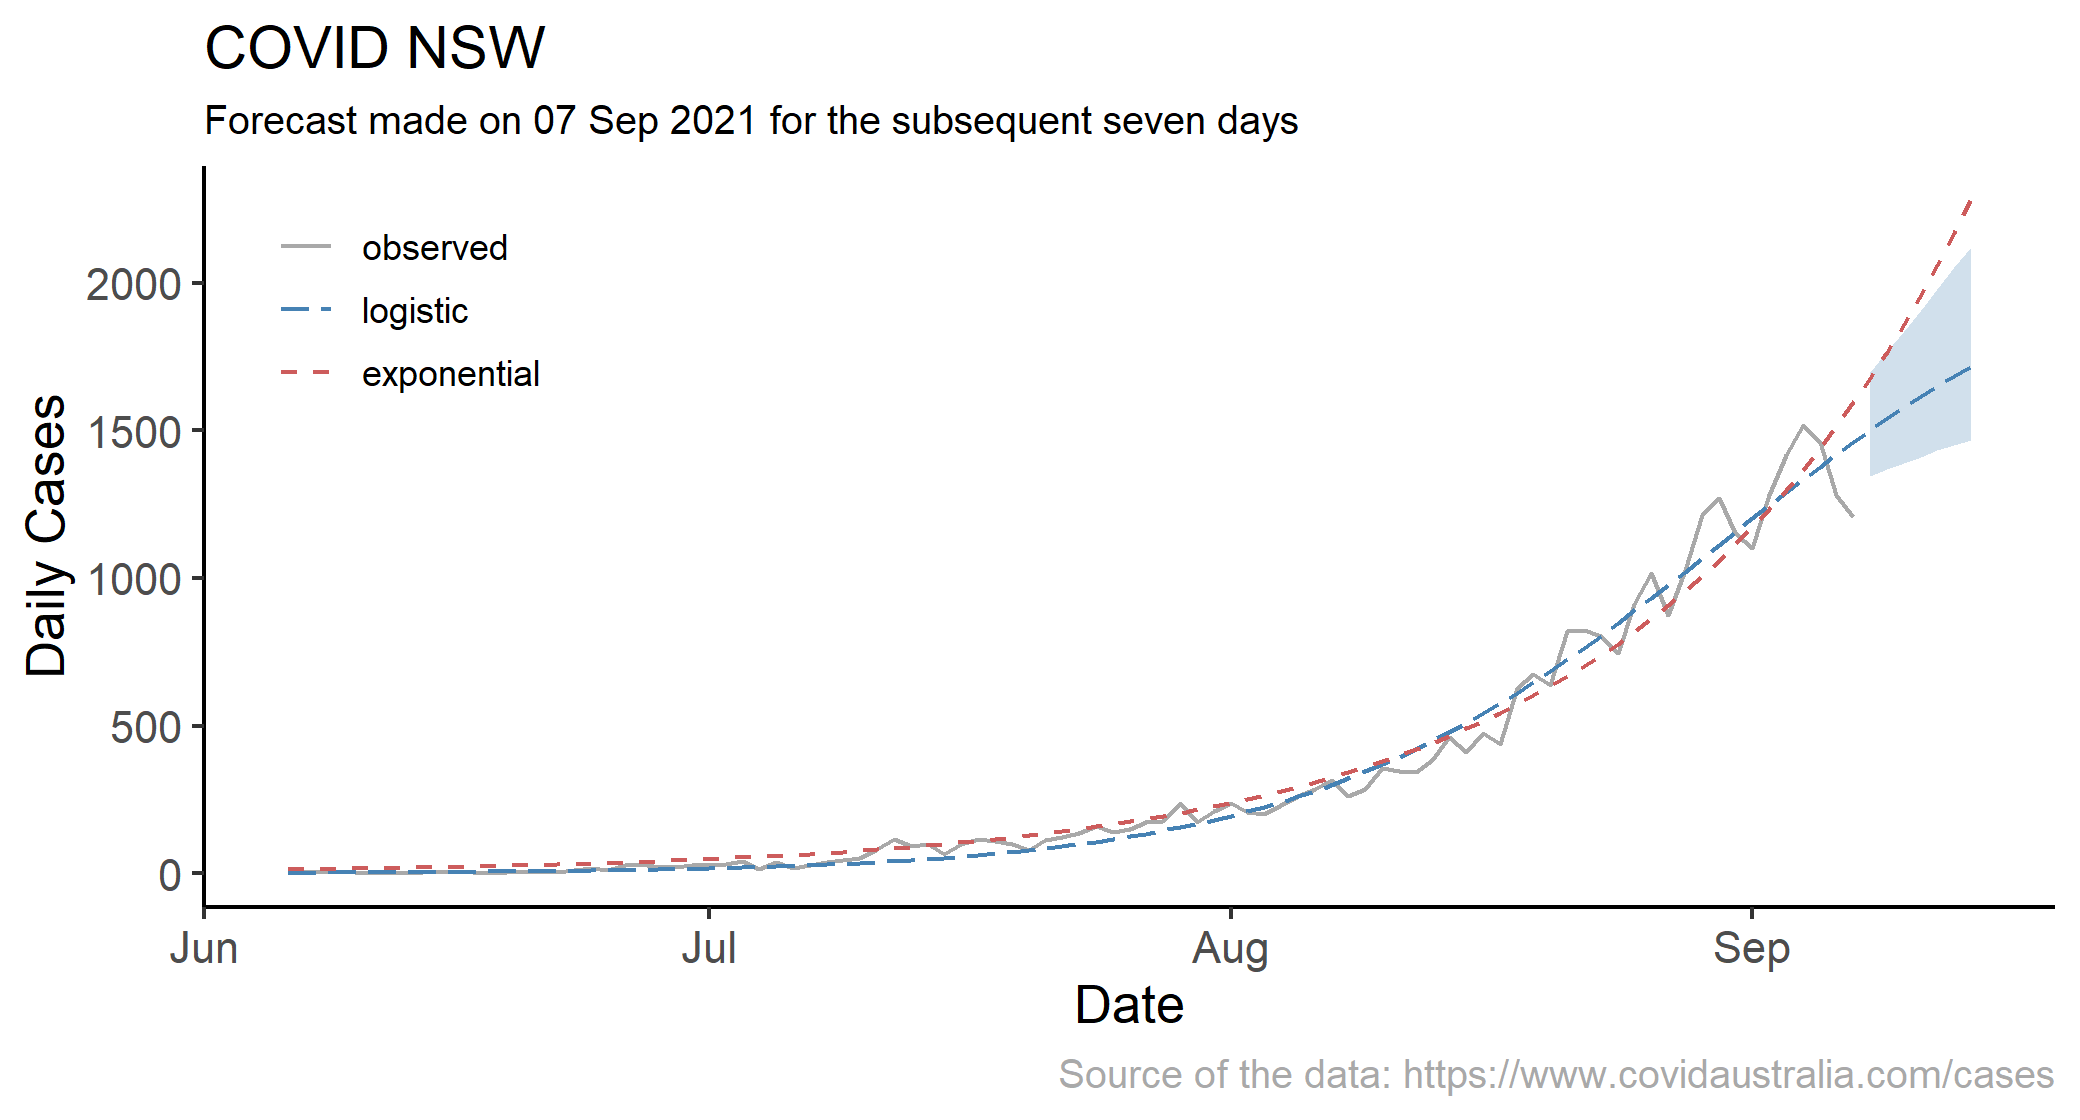
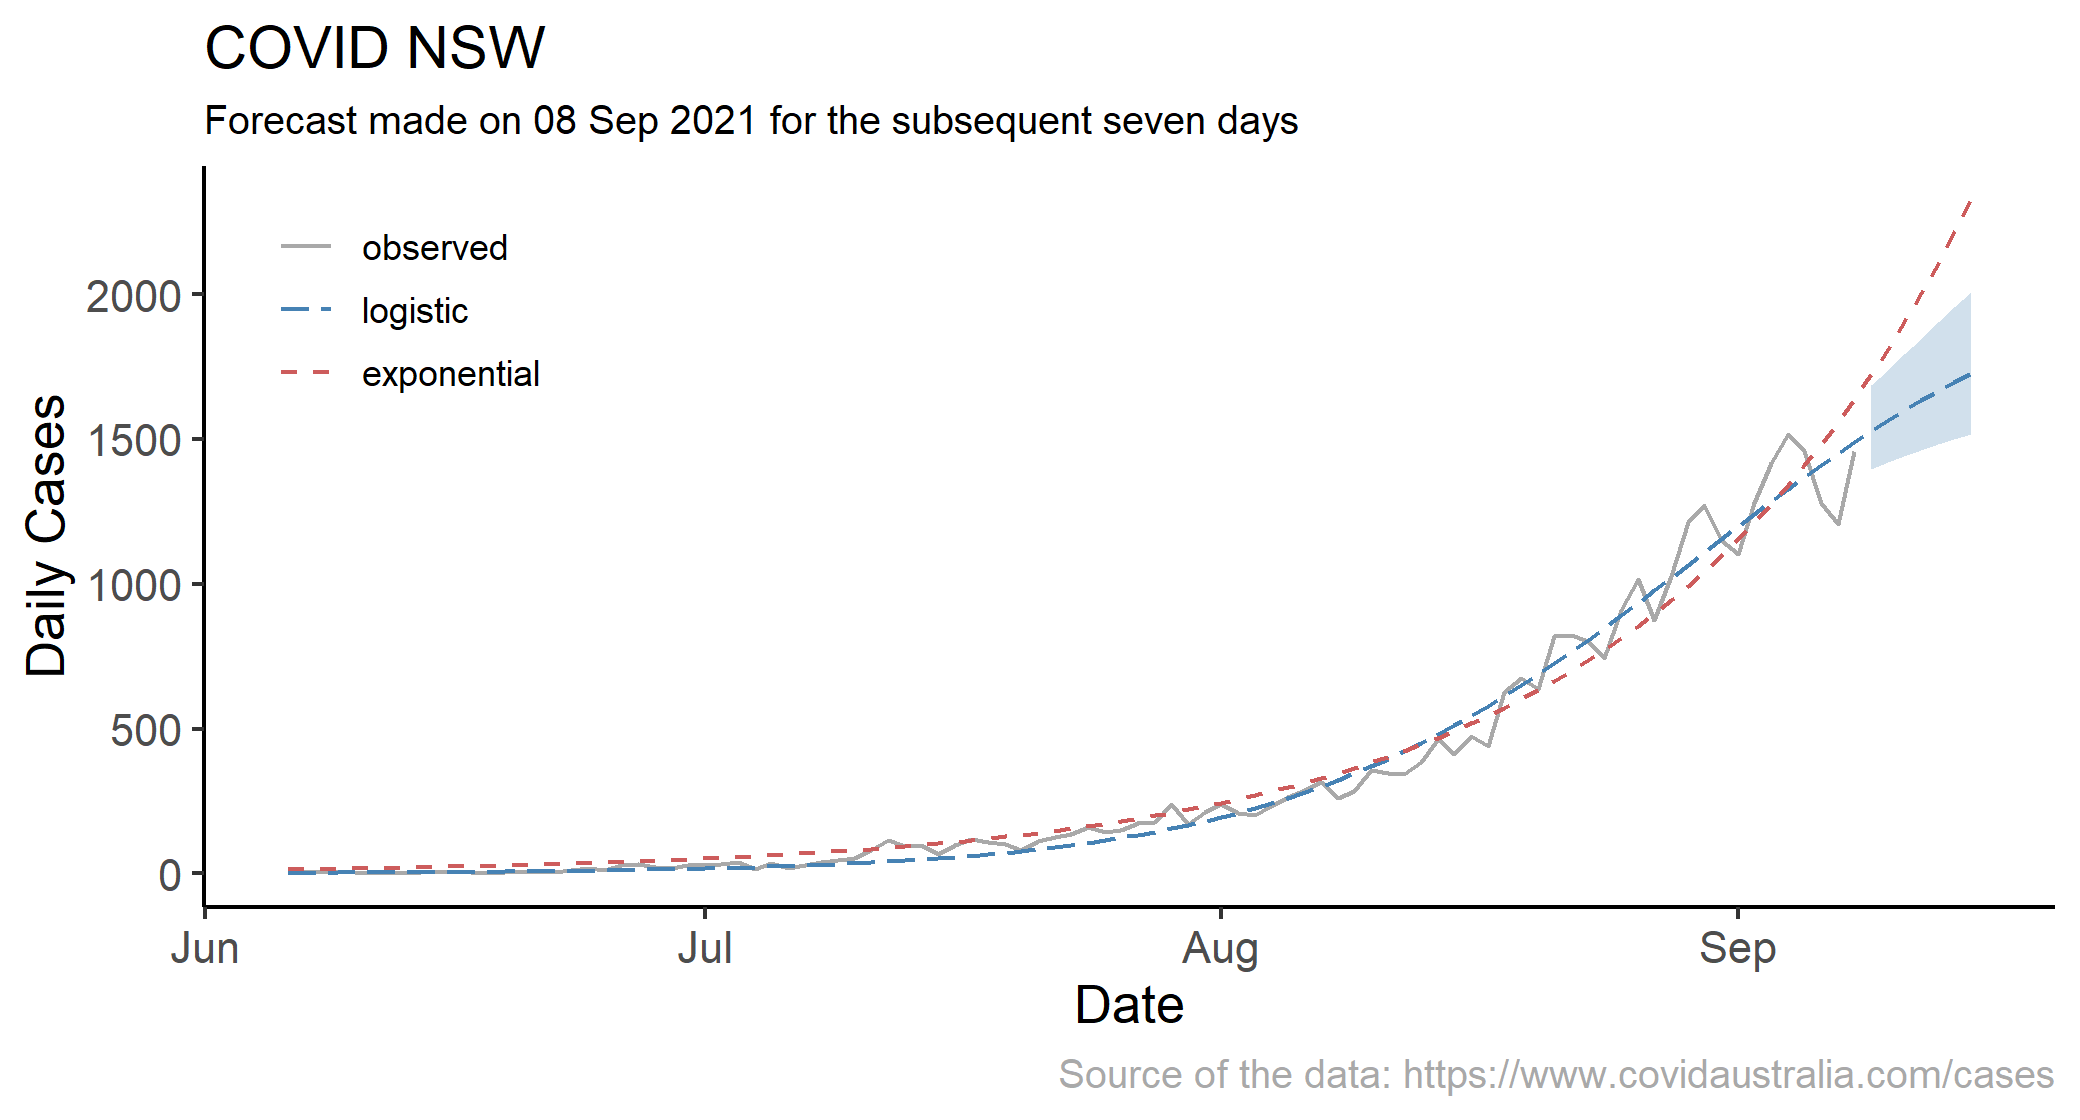
8 Sep update

diff --git a/README.md b/README.md
@@ -1,6 +1,6 @@
 # Forecasting Daily Covid Cases in NSW
 
-I created this project to primarily satisfy my curiosity about the trends of the covid cases in NSW since its 2021 wave due to the 'Delta variant,' which resulted in thousands of infections, dozens of deaths despite the multi-week lockdown across the state. 
+I started this project, primarily, to satisfy my curiosity about trends in daily covid cases in NSW during its 2021 wave due to the 'Delta variant,' which resulted in thousands of infections, dozens of deaths despite the multi-week lockdown across the state. 
 
 But there is more to that. With this project, I have combined two important topics of my research and teaching interests. I use a variant of a smooth transition regression to fit the seemingly exponentially trending data to make short term (up to seven-days-ahead) forecasts.
 
@@ -12,21 +12,21 @@ But there is more to that. With this project, I have combined two important topi
 
 ## Data and The Model
 
-I use the data on daily cases in NSW, obtained from the [COVID Australia](https://www.covidaustralia.com/) project, which I fit to a model from a family if regime-dependent regressions, the smooth transition regression. 
+I use the data on daily cases in NSW, obtained from the [COVID Australia](https://www.covidaustralia.com/) project. I fit these data to a model from a family of regime-dependent regressions - the smooth transition regression. 
 
-The basic version of this model, a two-regime smooth transition regression, will fit the data well in the beginning of the 'wave' but not subsequently. Once the daily cases peak, a multiple-regime smooth transition model, which accounts for turning points in the data, will better approximate the series.
+A basic version of this model, a two-regime *logistic* smooth transition regression, will fit the data well in the beginning of the 'wave' but not subsequently. Once the daily cases peak, a multiple-regime smooth transition model, or an *exponential* smooth transition regression, which account for turning points in the data, will better approximate the series.
 
 To illustrate, consider a scenario where we start with zero cases in day 0; then the cases increase for the subsequent 500 days or so, and peak at approximately 3000 cases per day; at that point the cases start decreasing and they 'stabilize' after 800 days at approximately 700 cases per day. The fitted trend from a multiple-regime smooth transition model, in such a scenario, will look as it is illustrated in the graph below.
 
 ![](illustration.png)
 
-A brief introduction to the model can be found [here](str.pdf). As outlined in this brief note, this model offers several benefits:
+A brief description of the model can be found [here](str.pdf). As outlined in this note, this model offers several benefits:
 
 - In the early stages of the wave, it mimics the exponential trend, which has been a characteristic feature of the covid waves.
 - Each regime is a plateau, connected by a sigmoid-shaped function, which gives it an advantage over the exponential trend function when modeling daily covid cases that inevitably cannot increase indefinitely.
 - It has a flexibility to add as many regimes as needed, to account for reduction of daily covid cases or, indeed, multiple waves.
 - It doesn't restrict the the rates of expansion and contraction (as illustrated in the graph above).
 
-The model has its caveats. The most important of these, arguably shared by nearly all trend models, is that it cannot forecast the turning point, and it can only account for the presence of one, at least with a considerable degree of accuracy, when the turning point is 'around the corner.'  
+The model has its caveats. The most important of these, arguably shared by nearly all trend models, is that it cannot forecast the turning point with any considerable degree of accuracy, and it can only do so when the turning point is 'around the corner.'  
 
 
